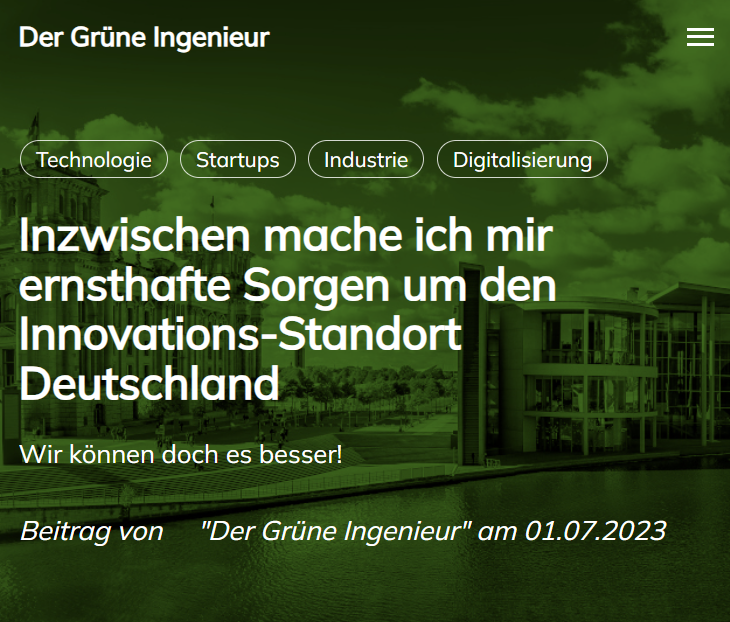
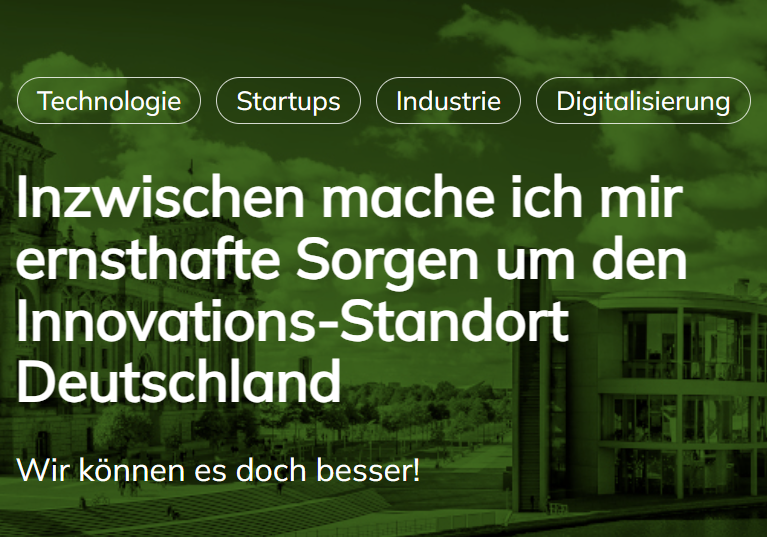
typo! kopetsch/ingenieurgruen@8cf85180b226f760ff4241c75e3a1fc991bb94fd

diff --git a/index.html b/index.html
@@ -9,7 +9,7 @@
 col-md-8 col-md-offset-1
 col-sm-12
 col-xs-12
-post-container"><div class=post-preview><a href=https://blog.ingenieurgruen.de/post/sorgen-cg/><h2 class=post-title>Inzwischen mache ich mir ernsthafte Sorgen um den Innovations-Standort Deutschland</h2><h3 class=post-subtitle>Wir können doch es besser!</h3><div class=post-content-preview>Als aufmerksamer Beobachter der deutschen Technologiebranche muss ich zugeben, dass sich meine Sorgen um den Innovations-Standort Deutschland in letzter Zeit zunehmend verstärkt haben.</div></a><p class=post-meta>Beitrag von     "Der Grüne Ingenieur" am 01.07.2023</p></div><hr><div class=post-preview><a href=https://blog.ingenieurgruen.de/post/innopol-krise/><h2 class=post-title>Bemerkungen über die Innovationspolitik in schwierigen Zeiten</h2><h3 class=post-subtitle>In Krisen, wie wir sie im Moment erleben, dürfen wir unsere Innovationsfähigkeit nicht in Gefahr bringen.</h3><div class=post-content-preview>Wenn wir uns in Deutschland heute ausschließlich auf Klima und Energie konzentrieren, dann gibt es wieder lange Gesichter, wenn andere Schlüsseltechnologien vollständig verloren und neue Abhängigkeiten entstanden sind.</div></a><p class=post-meta>Beitrag von     "Der Grüne Ingenieur" am 26.04.2023</p></div><hr><div class=post-preview><a href=https://blog.ingenieurgruen.de/post/genossenschaft/><h2 class=post-title>Die eingetragene Genossenschaft als Innovationsraum</h2><h3 class=post-subtitle>Was einer allein nicht schafft, das schaffen viele!</h3><div class=post-content-preview>Was einer allein nicht schafft, das schaffen viele, so die Überzeugung von Friedrich Wilhelm Raiffeisen, dem Initiator des Genossenschaftsgedankens.</div></a><p class=post-meta>Beitrag von     "Der Grüne Ingenieur" am 12.01.2023</p></div><hr><div class=post-preview><a href=https://blog.ingenieurgruen.de/post/bdk22/><h2 class=post-title>Bemerkungen zur Bundesdelegiertenkonferenz (BDK) der Grünen im Oktober 2022</h2><h3 class=post-subtitle>Zum ersten Mal seit drei Jahren, fand die BDK wieder in Präsenz statt.</h3><div class=post-content-preview>Es war deutlich zu spüren: Die Welt ist eine andere und unsere Partei hat sich verändert, weil sich die Menschen in dieser neuen Realität auch verändern und nach Orientierung suchen.</div></a><p class=post-meta>Beitrag von     "Der Grüne Ingenieur" am 16.10.2022</p></div><hr><div class=post-preview><a href=https://blog.ingenieurgruen.de/post/startup-strategie-bmwk-22/><h2 class=post-title>Respekt! So geht gute Wirtschaftspolitik.</h2><h3 class=post-subtitle>Die StartUp-Strategie des Bundesministeriums für Wirtschaft und Klimaschutz</h3><div class=post-content-preview>Lösungsansätze, die seit Jahren intensiv diskutiert worden sind, kurzfristig realisieren. Nach 16 Jahren CDU geführter Regierung des Stillstands, sind wir daran wahrscheinlich nicht mehr gewöhnt.</div></a><p class=post-meta>Beitrag von     "Der Grüne Ingenieur" am 06.06.2022</p></div><hr><div class=post-preview><a href=https://blog.ingenieurgruen.de/post/impulse-20lp/><h2 class=post-title>Innovations- und Technologiepolitik 2022-25</h2><h3 class=post-subtitle>Impulse für eine Verbesserung der Innovationspolitik in der 20. Legislaturperiode</h3><div class=post-content-preview>Folgende Leitgedanken dienen der Strukturierung der Überlegungen. Sie dienen als Diskussionsimpulse für die Entwicklung einer entsprechenden Strategie.</div></a><p class=post-meta>Beitrag von     "Der Grüne Ingenieur" am 20.05.2022</p></div><hr><div class=post-preview><a href=https://blog.ingenieurgruen.de/post/innovation-kmu/><h2 class=post-title>Innovation und KMU</h2><h3 class=post-subtitle>Ein Beitrag zur Debatte über neue Ansätze in der Innovationsförderung</h3><div class=post-content-preview>In der Innovationspolitik wird in Deutschland auch vieles richtig gemacht. Im internationalen Vergleich sind die Aktivitäten zielführend und ausgewogen. Trotzdem besteht der Bedarf an einer Justierung der Instrumente.</div></a><p class=post-meta>Beitrag von     "Der Grüne Ingenieur" am 30.04.2022</p></div><hr><div class=post-preview><a href=https://blog.ingenieurgruen.de/post/skalierbarkeit/><h2 class=post-title>Wir pfeifen auf Skalierbarkeit!</h2><h3 class=post-subtitle>Wer sind unsere Vorbilder?</h3><div class=post-content-preview>Geschäftsmodelle, die nur durch die eigene marktbeherrschende Größe funktionieren, zu Lasten der Arbeitsbedingungen und der Qualität der Angebote, dürfen sich nicht durchsetzen, weil dann echter Wettbewerb nicht mehr existiert.</div></a><p class=post-meta>Beitrag von     "Der Grüne Ingenieur" am 19.04.2022</p></div><hr><div class=post-preview><a href=https://blog.ingenieurgruen.de/post/mittelstand/><h2 class=post-title>Zukunft des Mittelstands - Mittelstand der Zukunft</h2><h3 class=post-subtitle>Wohin geht unser Weg?</h3><div class=post-content-preview>Unternehmer*in sein heißt, Verantwortung für die Zukunft zu übernehmen und nicht, über Exit-Strategien zu fabulieren.</div></a><p class=post-meta>Beitrag von     "Der Grüne Ingenieur" am 15.02.2022</p></div><hr><div class=post-preview><a href=https://blog.ingenieurgruen.de/post/startups/><h2 class=post-title>Innovationspolitik darf nicht immer nur um Startups kreisen</h2><h3 class=post-subtitle>Der größte Feind der Innovation ist der gegenwärtige Erfolg!</h3><div class=post-content-preview>Ein Unternehmen wird von Hochschulabsolventen gegründet, tritt mit Ergebnissen aus der Forschung erfolgreich in den Markt ein, um sich dort zu behaupten.</div></a><p class=post-meta>Beitrag von     "Der Grüne Ingenieur" am 20.01.2022</p></div><hr><ul class=pager><li class=next><a href=/page/2/>Older Posts &rarr;</a></li></ul></div><div class="col-lg-3 col-lg-offset-0
+post-container"><div class=post-preview><a href=https://blog.ingenieurgruen.de/post/sorgen-cg/><h2 class=post-title>Inzwischen mache ich mir ernsthafte Sorgen um den Innovations-Standort Deutschland</h2><h3 class=post-subtitle>Wir können es doch besser!</h3><div class=post-content-preview>Als aufmerksamer Beobachter der deutschen Technologiebranche muss ich zugeben, dass sich meine Sorgen um den Innovations-Standort Deutschland in letzter Zeit zunehmend verstärkt haben.</div></a><p class=post-meta>Beitrag von     "Der Grüne Ingenieur" am 01.07.2023</p></div><hr><div class=post-preview><a href=https://blog.ingenieurgruen.de/post/innopol-krise/><h2 class=post-title>Bemerkungen über die Innovationspolitik in schwierigen Zeiten</h2><h3 class=post-subtitle>In Krisen, wie wir sie im Moment erleben, dürfen wir unsere Innovationsfähigkeit nicht in Gefahr bringen.</h3><div class=post-content-preview>Wenn wir uns in Deutschland heute ausschließlich auf Klima und Energie konzentrieren, dann gibt es wieder lange Gesichter, wenn andere Schlüsseltechnologien vollständig verloren und neue Abhängigkeiten entstanden sind.</div></a><p class=post-meta>Beitrag von     "Der Grüne Ingenieur" am 26.04.2023</p></div><hr><div class=post-preview><a href=https://blog.ingenieurgruen.de/post/genossenschaft/><h2 class=post-title>Die eingetragene Genossenschaft als Innovationsraum</h2><h3 class=post-subtitle>Was einer allein nicht schafft, das schaffen viele!</h3><div class=post-content-preview>Was einer allein nicht schafft, das schaffen viele, so die Überzeugung von Friedrich Wilhelm Raiffeisen, dem Initiator des Genossenschaftsgedankens.</div></a><p class=post-meta>Beitrag von     "Der Grüne Ingenieur" am 12.01.2023</p></div><hr><div class=post-preview><a href=https://blog.ingenieurgruen.de/post/bdk22/><h2 class=post-title>Bemerkungen zur Bundesdelegiertenkonferenz (BDK) der Grünen im Oktober 2022</h2><h3 class=post-subtitle>Zum ersten Mal seit drei Jahren, fand die BDK wieder in Präsenz statt.</h3><div class=post-content-preview>Es war deutlich zu spüren: Die Welt ist eine andere und unsere Partei hat sich verändert, weil sich die Menschen in dieser neuen Realität auch verändern und nach Orientierung suchen.</div></a><p class=post-meta>Beitrag von     "Der Grüne Ingenieur" am 16.10.2022</p></div><hr><div class=post-preview><a href=https://blog.ingenieurgruen.de/post/startup-strategie-bmwk-22/><h2 class=post-title>Respekt! So geht gute Wirtschaftspolitik.</h2><h3 class=post-subtitle>Die StartUp-Strategie des Bundesministeriums für Wirtschaft und Klimaschutz</h3><div class=post-content-preview>Lösungsansätze, die seit Jahren intensiv diskutiert worden sind, kurzfristig realisieren. Nach 16 Jahren CDU geführter Regierung des Stillstands, sind wir daran wahrscheinlich nicht mehr gewöhnt.</div></a><p class=post-meta>Beitrag von     "Der Grüne Ingenieur" am 06.06.2022</p></div><hr><div class=post-preview><a href=https://blog.ingenieurgruen.de/post/impulse-20lp/><h2 class=post-title>Innovations- und Technologiepolitik 2022-25</h2><h3 class=post-subtitle>Impulse für eine Verbesserung der Innovationspolitik in der 20. Legislaturperiode</h3><div class=post-content-preview>Folgende Leitgedanken dienen der Strukturierung der Überlegungen. Sie dienen als Diskussionsimpulse für die Entwicklung einer entsprechenden Strategie.</div></a><p class=post-meta>Beitrag von     "Der Grüne Ingenieur" am 20.05.2022</p></div><hr><div class=post-preview><a href=https://blog.ingenieurgruen.de/post/innovation-kmu/><h2 class=post-title>Innovation und KMU</h2><h3 class=post-subtitle>Ein Beitrag zur Debatte über neue Ansätze in der Innovationsförderung</h3><div class=post-content-preview>In der Innovationspolitik wird in Deutschland auch vieles richtig gemacht. Im internationalen Vergleich sind die Aktivitäten zielführend und ausgewogen. Trotzdem besteht der Bedarf an einer Justierung der Instrumente.</div></a><p class=post-meta>Beitrag von     "Der Grüne Ingenieur" am 30.04.2022</p></div><hr><div class=post-preview><a href=https://blog.ingenieurgruen.de/post/skalierbarkeit/><h2 class=post-title>Wir pfeifen auf Skalierbarkeit!</h2><h3 class=post-subtitle>Wer sind unsere Vorbilder?</h3><div class=post-content-preview>Geschäftsmodelle, die nur durch die eigene marktbeherrschende Größe funktionieren, zu Lasten der Arbeitsbedingungen und der Qualität der Angebote, dürfen sich nicht durchsetzen, weil dann echter Wettbewerb nicht mehr existiert.</div></a><p class=post-meta>Beitrag von     "Der Grüne Ingenieur" am 19.04.2022</p></div><hr><div class=post-preview><a href=https://blog.ingenieurgruen.de/post/mittelstand/><h2 class=post-title>Zukunft des Mittelstands - Mittelstand der Zukunft</h2><h3 class=post-subtitle>Wohin geht unser Weg?</h3><div class=post-content-preview>Unternehmer*in sein heißt, Verantwortung für die Zukunft zu übernehmen und nicht, über Exit-Strategien zu fabulieren.</div></a><p class=post-meta>Beitrag von     "Der Grüne Ingenieur" am 15.02.2022</p></div><hr><div class=post-preview><a href=https://blog.ingenieurgruen.de/post/startups/><h2 class=post-title>Innovationspolitik darf nicht immer nur um Startups kreisen</h2><h3 class=post-subtitle>Der größte Feind der Innovation ist der gegenwärtige Erfolg!</h3><div class=post-content-preview>Ein Unternehmen wird von Hochschulabsolventen gegründet, tritt mit Ergebnissen aus der Forschung erfolgreich in den Markt ein, um sich dort zu behaupten.</div></a><p class=post-meta>Beitrag von     "Der Grüne Ingenieur" am 20.01.2022</p></div><hr><ul class=pager><li class=next><a href=/page/2/>Older Posts &rarr;</a></li></ul></div><div class="col-lg-3 col-lg-offset-0
 col-md-3 col-md-offset-0
 col-sm-12
 col-xs-12

diff --git a/tags/startups/index.html b/tags/startups/index.html
@@ -9,7 +9,7 @@
 col-md-8 col-md-offset-1
 col-sm-12
 col-xs-12
-post-container"><div class=post-preview><a href=https://blog.ingenieurgruen.de/post/sorgen-cg/><h2 class=post-title>Inzwischen mache ich mir ernsthafte Sorgen um den Innovations-Standort Deutschland</h2><h3 class=post-subtitle>Wir können doch es besser!</h3><div class=post-content-preview>Als aufmerksamer Beobachter der deutschen Technologiebranche muss ich zugeben, dass sich meine Sorgen um den Innovations-Standort Deutschland in letzter Zeit zunehmend verstärkt haben.</div></a><p class=post-meta>Beitrag von     "Der Grüne Ingenieur" am 01.07.2023</p></div><hr><div class=post-preview><a href=https://blog.ingenieurgruen.de/post/startup-strategie-bmwk-22/><h2 class=post-title>Respekt! So geht gute Wirtschaftspolitik.</h2><h3 class=post-subtitle>Die StartUp-Strategie des Bundesministeriums für Wirtschaft und Klimaschutz</h3><div class=post-content-preview>Lösungsansätze, die seit Jahren intensiv diskutiert worden sind, kurzfristig realisieren. Nach 16 Jahren CDU geführter Regierung des Stillstands, sind wir daran wahrscheinlich nicht mehr gewöhnt.</div></a><p class=post-meta>Beitrag von     "Der Grüne Ingenieur" am 06.06.2022</p></div><hr><div class=post-preview><a href=https://blog.ingenieurgruen.de/post/impulse-20lp/><h2 class=post-title>Innovations- und Technologiepolitik 2022-25</h2><h3 class=post-subtitle>Impulse für eine Verbesserung der Innovationspolitik in der 20. Legislaturperiode</h3><div class=post-content-preview>Folgende Leitgedanken dienen der Strukturierung der Überlegungen. Sie dienen als Diskussionsimpulse für die Entwicklung einer entsprechenden Strategie.</div></a><p class=post-meta>Beitrag von     "Der Grüne Ingenieur" am 20.05.2022</p></div><hr><div class=post-preview><a href=https://blog.ingenieurgruen.de/post/innovation-kmu/><h2 class=post-title>Innovation und KMU</h2><h3 class=post-subtitle>Ein Beitrag zur Debatte über neue Ansätze in der Innovationsförderung</h3><div class=post-content-preview>In der Innovationspolitik wird in Deutschland auch vieles richtig gemacht. Im internationalen Vergleich sind die Aktivitäten zielführend und ausgewogen. Trotzdem besteht der Bedarf an einer Justierung der Instrumente.</div></a><p class=post-meta>Beitrag von     "Der Grüne Ingenieur" am 30.04.2022</p></div><hr><div class=post-preview><a href=https://blog.ingenieurgruen.de/post/skalierbarkeit/><h2 class=post-title>Wir pfeifen auf Skalierbarkeit!</h2><h3 class=post-subtitle>Wer sind unsere Vorbilder?</h3><div class=post-content-preview>Geschäftsmodelle, die nur durch die eigene marktbeherrschende Größe funktionieren, zu Lasten der Arbeitsbedingungen und der Qualität der Angebote, dürfen sich nicht durchsetzen, weil dann echter Wettbewerb nicht mehr existiert.</div></a><p class=post-meta>Beitrag von     "Der Grüne Ingenieur" am 19.04.2022</p></div><hr><div class=post-preview><a href=https://blog.ingenieurgruen.de/post/startups/><h2 class=post-title>Innovationspolitik darf nicht immer nur um Startups kreisen</h2><h3 class=post-subtitle>Der größte Feind der Innovation ist der gegenwärtige Erfolg!</h3><div class=post-content-preview>Ein Unternehmen wird von Hochschulabsolventen gegründet, tritt mit Ergebnissen aus der Forschung erfolgreich in den Markt ein, um sich dort zu behaupten.</div></a><p class=post-meta>Beitrag von     "Der Grüne Ingenieur" am 20.01.2022</p></div><hr><div class=post-preview><a href=https://blog.ingenieurgruen.de/post/startup-oeko/><h2 class=post-title>Bemerkungen über die Start-Up Ökonomie</h2><h3 class=post-subtitle>Nur Startup sein alleine, reicht nicht!</h3><div class=post-content-preview>Die Anzahl der Unternehmensgründungen ist insgesamt rückläufig. Es scheint, als hätte der Hype um die Gründung innovativer Unternehmen seinen Höhepunkt bereits überschritten.</div></a><p class=post-meta>Beitrag von     "Der Grüne Ingenieur" am 27.07.2019</p></div><hr></div><div class="col-lg-3 col-lg-offset-0
+post-container"><div class=post-preview><a href=https://blog.ingenieurgruen.de/post/sorgen-cg/><h2 class=post-title>Inzwischen mache ich mir ernsthafte Sorgen um den Innovations-Standort Deutschland</h2><h3 class=post-subtitle>Wir können es doch besser!</h3><div class=post-content-preview>Als aufmerksamer Beobachter der deutschen Technologiebranche muss ich zugeben, dass sich meine Sorgen um den Innovations-Standort Deutschland in letzter Zeit zunehmend verstärkt haben.</div></a><p class=post-meta>Beitrag von     "Der Grüne Ingenieur" am 01.07.2023</p></div><hr><div class=post-preview><a href=https://blog.ingenieurgruen.de/post/startup-strategie-bmwk-22/><h2 class=post-title>Respekt! So geht gute Wirtschaftspolitik.</h2><h3 class=post-subtitle>Die StartUp-Strategie des Bundesministeriums für Wirtschaft und Klimaschutz</h3><div class=post-content-preview>Lösungsansätze, die seit Jahren intensiv diskutiert worden sind, kurzfristig realisieren. Nach 16 Jahren CDU geführter Regierung des Stillstands, sind wir daran wahrscheinlich nicht mehr gewöhnt.</div></a><p class=post-meta>Beitrag von     "Der Grüne Ingenieur" am 06.06.2022</p></div><hr><div class=post-preview><a href=https://blog.ingenieurgruen.de/post/impulse-20lp/><h2 class=post-title>Innovations- und Technologiepolitik 2022-25</h2><h3 class=post-subtitle>Impulse für eine Verbesserung der Innovationspolitik in der 20. Legislaturperiode</h3><div class=post-content-preview>Folgende Leitgedanken dienen der Strukturierung der Überlegungen. Sie dienen als Diskussionsimpulse für die Entwicklung einer entsprechenden Strategie.</div></a><p class=post-meta>Beitrag von     "Der Grüne Ingenieur" am 20.05.2022</p></div><hr><div class=post-preview><a href=https://blog.ingenieurgruen.de/post/innovation-kmu/><h2 class=post-title>Innovation und KMU</h2><h3 class=post-subtitle>Ein Beitrag zur Debatte über neue Ansätze in der Innovationsförderung</h3><div class=post-content-preview>In der Innovationspolitik wird in Deutschland auch vieles richtig gemacht. Im internationalen Vergleich sind die Aktivitäten zielführend und ausgewogen. Trotzdem besteht der Bedarf an einer Justierung der Instrumente.</div></a><p class=post-meta>Beitrag von     "Der Grüne Ingenieur" am 30.04.2022</p></div><hr><div class=post-preview><a href=https://blog.ingenieurgruen.de/post/skalierbarkeit/><h2 class=post-title>Wir pfeifen auf Skalierbarkeit!</h2><h3 class=post-subtitle>Wer sind unsere Vorbilder?</h3><div class=post-content-preview>Geschäftsmodelle, die nur durch die eigene marktbeherrschende Größe funktionieren, zu Lasten der Arbeitsbedingungen und der Qualität der Angebote, dürfen sich nicht durchsetzen, weil dann echter Wettbewerb nicht mehr existiert.</div></a><p class=post-meta>Beitrag von     "Der Grüne Ingenieur" am 19.04.2022</p></div><hr><div class=post-preview><a href=https://blog.ingenieurgruen.de/post/startups/><h2 class=post-title>Innovationspolitik darf nicht immer nur um Startups kreisen</h2><h3 class=post-subtitle>Der größte Feind der Innovation ist der gegenwärtige Erfolg!</h3><div class=post-content-preview>Ein Unternehmen wird von Hochschulabsolventen gegründet, tritt mit Ergebnissen aus der Forschung erfolgreich in den Markt ein, um sich dort zu behaupten.</div></a><p class=post-meta>Beitrag von     "Der Grüne Ingenieur" am 20.01.2022</p></div><hr><div class=post-preview><a href=https://blog.ingenieurgruen.de/post/startup-oeko/><h2 class=post-title>Bemerkungen über die Start-Up Ökonomie</h2><h3 class=post-subtitle>Nur Startup sein alleine, reicht nicht!</h3><div class=post-content-preview>Die Anzahl der Unternehmensgründungen ist insgesamt rückläufig. Es scheint, als hätte der Hype um die Gründung innovativer Unternehmen seinen Höhepunkt bereits überschritten.</div></a><p class=post-meta>Beitrag von     "Der Grüne Ingenieur" am 27.07.2019</p></div><hr></div><div class="col-lg-3 col-lg-offset-0
 col-md-3 col-md-offset-0
 col-sm-12
 col-xs-12

diff --git a/categories/wirtschaft/index.html b/categories/wirtschaft/index.html
@@ -9,7 +9,7 @@
 col-md-8 col-md-offset-1
 col-sm-12
 col-xs-12
-post-container"><div class=post-preview><a href=https://blog.ingenieurgruen.de/post/sorgen-cg/><h2 class=post-title>Inzwischen mache ich mir ernsthafte Sorgen um den Innovations-Standort Deutschland</h2><h3 class=post-subtitle>Wir können doch es besser!</h3><div class=post-content-preview>Als aufmerksamer Beobachter der deutschen Technologiebranche muss ich zugeben, dass sich meine Sorgen um den Innovations-Standort Deutschland in letzter Zeit zunehmend verstärkt haben.</div></a><p class=post-meta>Beitrag von     "Der Grüne Ingenieur" am 01.07.2023</p></div><hr><div class=post-preview><a href=https://blog.ingenieurgruen.de/post/genossenschaft/><h2 class=post-title>Die eingetragene Genossenschaft als Innovationsraum</h2><h3 class=post-subtitle>Was einer allein nicht schafft, das schaffen viele!</h3><div class=post-content-preview>Was einer allein nicht schafft, das schaffen viele, so die Überzeugung von Friedrich Wilhelm Raiffeisen, dem Initiator des Genossenschaftsgedankens.</div></a><p class=post-meta>Beitrag von     "Der Grüne Ingenieur" am 12.01.2023</p></div><hr><div class=post-preview><a href=https://blog.ingenieurgruen.de/post/skalierbarkeit/><h2 class=post-title>Wir pfeifen auf Skalierbarkeit!</h2><h3 class=post-subtitle>Wer sind unsere Vorbilder?</h3><div class=post-content-preview>Geschäftsmodelle, die nur durch die eigene marktbeherrschende Größe funktionieren, zu Lasten der Arbeitsbedingungen und der Qualität der Angebote, dürfen sich nicht durchsetzen, weil dann echter Wettbewerb nicht mehr existiert.</div></a><p class=post-meta>Beitrag von     "Der Grüne Ingenieur" am 19.04.2022</p></div><hr><div class=post-preview><a href=https://blog.ingenieurgruen.de/post/mittelstand/><h2 class=post-title>Zukunft des Mittelstands - Mittelstand der Zukunft</h2><h3 class=post-subtitle>Wohin geht unser Weg?</h3><div class=post-content-preview>Unternehmer*in sein heißt, Verantwortung für die Zukunft zu übernehmen und nicht, über Exit-Strategien zu fabulieren.</div></a><p class=post-meta>Beitrag von     "Der Grüne Ingenieur" am 15.02.2022</p></div><hr><div class=post-preview><a href=https://blog.ingenieurgruen.de/post/transport/><h2 class=post-title>Gütertransport und Klimaschutz</h2><h3 class=post-subtitle>Ist es in Ordnung, frischen Fisch um die Welt zu jetten?</h3><div class=post-content-preview>In der Diskussion um die Beschränkung der individuellen Mobilität zum Schutz des Klimas, wird merkwürdigerweise nie der Anteil des persönlichen Verhaltens am weltweiten Transport-Aufkommen für Konsumgüter in Betracht gezogen.</div></a><p class=post-meta>Beitrag von     "Der Grüne Ingenieur" am 12.07.2018</p></div><hr></div><div class="col-lg-3 col-lg-offset-0
+post-container"><div class=post-preview><a href=https://blog.ingenieurgruen.de/post/sorgen-cg/><h2 class=post-title>Inzwischen mache ich mir ernsthafte Sorgen um den Innovations-Standort Deutschland</h2><h3 class=post-subtitle>Wir können es doch besser!</h3><div class=post-content-preview>Als aufmerksamer Beobachter der deutschen Technologiebranche muss ich zugeben, dass sich meine Sorgen um den Innovations-Standort Deutschland in letzter Zeit zunehmend verstärkt haben.</div></a><p class=post-meta>Beitrag von     "Der Grüne Ingenieur" am 01.07.2023</p></div><hr><div class=post-preview><a href=https://blog.ingenieurgruen.de/post/genossenschaft/><h2 class=post-title>Die eingetragene Genossenschaft als Innovationsraum</h2><h3 class=post-subtitle>Was einer allein nicht schafft, das schaffen viele!</h3><div class=post-content-preview>Was einer allein nicht schafft, das schaffen viele, so die Überzeugung von Friedrich Wilhelm Raiffeisen, dem Initiator des Genossenschaftsgedankens.</div></a><p class=post-meta>Beitrag von     "Der Grüne Ingenieur" am 12.01.2023</p></div><hr><div class=post-preview><a href=https://blog.ingenieurgruen.de/post/skalierbarkeit/><h2 class=post-title>Wir pfeifen auf Skalierbarkeit!</h2><h3 class=post-subtitle>Wer sind unsere Vorbilder?</h3><div class=post-content-preview>Geschäftsmodelle, die nur durch die eigene marktbeherrschende Größe funktionieren, zu Lasten der Arbeitsbedingungen und der Qualität der Angebote, dürfen sich nicht durchsetzen, weil dann echter Wettbewerb nicht mehr existiert.</div></a><p class=post-meta>Beitrag von     "Der Grüne Ingenieur" am 19.04.2022</p></div><hr><div class=post-preview><a href=https://blog.ingenieurgruen.de/post/mittelstand/><h2 class=post-title>Zukunft des Mittelstands - Mittelstand der Zukunft</h2><h3 class=post-subtitle>Wohin geht unser Weg?</h3><div class=post-content-preview>Unternehmer*in sein heißt, Verantwortung für die Zukunft zu übernehmen und nicht, über Exit-Strategien zu fabulieren.</div></a><p class=post-meta>Beitrag von     "Der Grüne Ingenieur" am 15.02.2022</p></div><hr><div class=post-preview><a href=https://blog.ingenieurgruen.de/post/transport/><h2 class=post-title>Gütertransport und Klimaschutz</h2><h3 class=post-subtitle>Ist es in Ordnung, frischen Fisch um die Welt zu jetten?</h3><div class=post-content-preview>In der Diskussion um die Beschränkung der individuellen Mobilität zum Schutz des Klimas, wird merkwürdigerweise nie der Anteil des persönlichen Verhaltens am weltweiten Transport-Aufkommen für Konsumgüter in Betracht gezogen.</div></a><p class=post-meta>Beitrag von     "Der Grüne Ingenieur" am 12.07.2018</p></div><hr></div><div class="col-lg-3 col-lg-offset-0
 col-md-3 col-md-offset-0
 col-sm-12
 col-xs-12

diff --git a/tags/technologie/index.html b/tags/technologie/index.html
@@ -9,7 +9,7 @@
 col-md-8 col-md-offset-1
 col-sm-12
 col-xs-12
-post-container"><div class=post-preview><a href=https://blog.ingenieurgruen.de/post/sorgen-cg/><h2 class=post-title>Inzwischen mache ich mir ernsthafte Sorgen um den Innovations-Standort Deutschland</h2><h3 class=post-subtitle>Wir können doch es besser!</h3><div class=post-content-preview>Als aufmerksamer Beobachter der deutschen Technologiebranche muss ich zugeben, dass sich meine Sorgen um den Innovations-Standort Deutschland in letzter Zeit zunehmend verstärkt haben.</div></a><p class=post-meta>Beitrag von     "Der Grüne Ingenieur" am 01.07.2023</p></div><hr><div class=post-preview><a href=https://blog.ingenieurgruen.de/post/innopol-krise/><h2 class=post-title>Bemerkungen über die Innovationspolitik in schwierigen Zeiten</h2><h3 class=post-subtitle>In Krisen, wie wir sie im Moment erleben, dürfen wir unsere Innovationsfähigkeit nicht in Gefahr bringen.</h3><div class=post-content-preview>Wenn wir uns in Deutschland heute ausschließlich auf Klima und Energie konzentrieren, dann gibt es wieder lange Gesichter, wenn andere Schlüsseltechnologien vollständig verloren und neue Abhängigkeiten entstanden sind.</div></a><p class=post-meta>Beitrag von     "Der Grüne Ingenieur" am 26.04.2023</p></div><hr><div class=post-preview><a href=https://blog.ingenieurgruen.de/post/gaia-airbus/><h2 class=post-title>Mehr AIRBUS und GAIA-X für Europa</h2><h3 class=post-subtitle>Unser Weg zur technologischen Souveränität Europas!</h3><div class=post-content-preview>Gemeinschaftsunternehmungen wie GAIA-X und AIRBUS stärken nicht nur die Zukunftsfähigkeit der Wirtschaft in Europa, sondern gleichzeitig das Gefühl für europäische Identität und Zusammengehörigkeit.</div></a><p class=post-meta>Beitrag von     "Der Grüne Ingenieur" am 26.11.2019</p></div><hr></div><div class="col-lg-3 col-lg-offset-0
+post-container"><div class=post-preview><a href=https://blog.ingenieurgruen.de/post/sorgen-cg/><h2 class=post-title>Inzwischen mache ich mir ernsthafte Sorgen um den Innovations-Standort Deutschland</h2><h3 class=post-subtitle>Wir können es doch besser!</h3><div class=post-content-preview>Als aufmerksamer Beobachter der deutschen Technologiebranche muss ich zugeben, dass sich meine Sorgen um den Innovations-Standort Deutschland in letzter Zeit zunehmend verstärkt haben.</div></a><p class=post-meta>Beitrag von     "Der Grüne Ingenieur" am 01.07.2023</p></div><hr><div class=post-preview><a href=https://blog.ingenieurgruen.de/post/innopol-krise/><h2 class=post-title>Bemerkungen über die Innovationspolitik in schwierigen Zeiten</h2><h3 class=post-subtitle>In Krisen, wie wir sie im Moment erleben, dürfen wir unsere Innovationsfähigkeit nicht in Gefahr bringen.</h3><div class=post-content-preview>Wenn wir uns in Deutschland heute ausschließlich auf Klima und Energie konzentrieren, dann gibt es wieder lange Gesichter, wenn andere Schlüsseltechnologien vollständig verloren und neue Abhängigkeiten entstanden sind.</div></a><p class=post-meta>Beitrag von     "Der Grüne Ingenieur" am 26.04.2023</p></div><hr><div class=post-preview><a href=https://blog.ingenieurgruen.de/post/gaia-airbus/><h2 class=post-title>Mehr AIRBUS und GAIA-X für Europa</h2><h3 class=post-subtitle>Unser Weg zur technologischen Souveränität Europas!</h3><div class=post-content-preview>Gemeinschaftsunternehmungen wie GAIA-X und AIRBUS stärken nicht nur die Zukunftsfähigkeit der Wirtschaft in Europa, sondern gleichzeitig das Gefühl für europäische Identität und Zusammengehörigkeit.</div></a><p class=post-meta>Beitrag von     "Der Grüne Ingenieur" am 26.11.2019</p></div><hr></div><div class="col-lg-3 col-lg-offset-0
 col-md-3 col-md-offset-0
 col-sm-12
 col-xs-12

diff --git a/tags/industrie/index.html b/tags/industrie/index.html
@@ -9,7 +9,7 @@
 col-md-8 col-md-offset-1
 col-sm-12
 col-xs-12
-post-container"><div class=post-preview><a href=https://blog.ingenieurgruen.de/post/sorgen-cg/><h2 class=post-title>Inzwischen mache ich mir ernsthafte Sorgen um den Innovations-Standort Deutschland</h2><h3 class=post-subtitle>Wir können doch es besser!</h3><div class=post-content-preview>Als aufmerksamer Beobachter der deutschen Technologiebranche muss ich zugeben, dass sich meine Sorgen um den Innovations-Standort Deutschland in letzter Zeit zunehmend verstärkt haben.</div></a><p class=post-meta>Beitrag von     "Der Grüne Ingenieur" am 01.07.2023</p></div><hr><div class=post-preview><a href=https://blog.ingenieurgruen.de/post/iot/><h2 class=post-title>Für das Internet der Dinge braucht es zuerst Dinge</h2><h3 class=post-subtitle>Unsers Stärken müssen wir stärken!</h3><div class=post-content-preview>Investitionen in technologische Forschung und Entwicklung mit dem Ziel, Gegenstände („Hardware“) zu fertigen erfordern einen längeren Atem als in der Digitalwirtschaft.</div></a><p class=post-meta>Beitrag von     "Der Grüne Ingenieur" am 26.09.2021</p></div><hr></div><div class="col-lg-3 col-lg-offset-0
+post-container"><div class=post-preview><a href=https://blog.ingenieurgruen.de/post/sorgen-cg/><h2 class=post-title>Inzwischen mache ich mir ernsthafte Sorgen um den Innovations-Standort Deutschland</h2><h3 class=post-subtitle>Wir können es doch besser!</h3><div class=post-content-preview>Als aufmerksamer Beobachter der deutschen Technologiebranche muss ich zugeben, dass sich meine Sorgen um den Innovations-Standort Deutschland in letzter Zeit zunehmend verstärkt haben.</div></a><p class=post-meta>Beitrag von     "Der Grüne Ingenieur" am 01.07.2023</p></div><hr><div class=post-preview><a href=https://blog.ingenieurgruen.de/post/iot/><h2 class=post-title>Für das Internet der Dinge braucht es zuerst Dinge</h2><h3 class=post-subtitle>Unsers Stärken müssen wir stärken!</h3><div class=post-content-preview>Investitionen in technologische Forschung und Entwicklung mit dem Ziel, Gegenstände („Hardware“) zu fertigen erfordern einen längeren Atem als in der Digitalwirtschaft.</div></a><p class=post-meta>Beitrag von     "Der Grüne Ingenieur" am 26.09.2021</p></div><hr></div><div class="col-lg-3 col-lg-offset-0
 col-md-3 col-md-offset-0
 col-sm-12
 col-xs-12

diff --git a/post/sorgen-cg/index.html b/post/sorgen-cg/index.html
@@ -8,7 +8,7 @@
 <a class=navbar-brand href=/>Der Grüne Ingenieur</a></div><div id=huxblog_navbar><div class=navbar-collapse><ul class="nav navbar-nav navbar-right"><li><a href=/>Alle Beiträge</a></li><li><a href=/categories/europa>europa</a></li><li><a href=/categories/innovation>innovation</a></li><li><a href=/categories/politik>politik</a></li><li><a href=/categories/wirtschaft>wirtschaft</a></li><li><a href=/misc/impressum/>impressum</a></li></ul></div></div></div></nav><script>var $body=document.body,$toggle=document.querySelector(".navbar-toggle"),$navbar=document.querySelector("#huxblog_navbar"),$collapse=document.querySelector(".navbar-collapse");$toggle.addEventListener("click",handleMagic);function handleMagic(){$navbar.className.indexOf("in")>0?($navbar.className=" ",setTimeout(function(){$navbar.className.indexOf("in")<0&&($collapse.style.height="0px")},400)):($collapse.style.height="auto",$navbar.className+=" in")}</script><style type=text/css>header.intro-header{background-image:url(/img/iStock-1049916470-RT-1280-green-dark.jpg)}</style><header class=intro-header><div class=container><div class=row><div class="col-lg-8 col-lg-offset-2 col-md-10 col-md-offset-1"><div class=post-heading><div class=tags><a class=tag href=/tags/technologie title=Technologie>Technologie</a>
 <a class=tag href=/tags/startups title=Startups>Startups</a>
 <a class=tag href=/tags/industrie title=Industrie>Industrie</a>
-<a class=tag href=/tags/digitalisierung title=Digitalisierung>Digitalisierung</a></div><h1>Inzwischen mache ich mir ernsthafte Sorgen um den Innovations-Standort Deutschland</h1><h2 class=subheading>Wir können doch es besser!</h2><span class=meta>Beitrag von
+<a class=tag href=/tags/digitalisierung title=Digitalisierung>Digitalisierung</a></div><h1>Inzwischen mache ich mir ernsthafte Sorgen um den Innovations-Standort Deutschland</h1><h2 class=subheading>Wir können es doch besser!</h2><span class=meta>Beitrag von
     "Der Grüne Ingenieur"
 am
 01.07.2023</span></div></div></div></div></header><article><div class=container><div class=row><div class="col-lg-8 col-lg-offset-2

diff --git a/tags/digitalisierung/index.html b/tags/digitalisierung/index.html
@@ -9,7 +9,7 @@
 col-md-8 col-md-offset-1
 col-sm-12
 col-xs-12
-post-container"><div class=post-preview><a href=https://blog.ingenieurgruen.de/post/sorgen-cg/><h2 class=post-title>Inzwischen mache ich mir ernsthafte Sorgen um den Innovations-Standort Deutschland</h2><h3 class=post-subtitle>Wir können doch es besser!</h3><div class=post-content-preview>Als aufmerksamer Beobachter der deutschen Technologiebranche muss ich zugeben, dass sich meine Sorgen um den Innovations-Standort Deutschland in letzter Zeit zunehmend verstärkt haben.</div></a><p class=post-meta>Beitrag von     "Der Grüne Ingenieur" am 01.07.2023</p></div><hr></div><div class="col-lg-3 col-lg-offset-0
+post-container"><div class=post-preview><a href=https://blog.ingenieurgruen.de/post/sorgen-cg/><h2 class=post-title>Inzwischen mache ich mir ernsthafte Sorgen um den Innovations-Standort Deutschland</h2><h3 class=post-subtitle>Wir können es doch besser!</h3><div class=post-content-preview>Als aufmerksamer Beobachter der deutschen Technologiebranche muss ich zugeben, dass sich meine Sorgen um den Innovations-Standort Deutschland in letzter Zeit zunehmend verstärkt haben.</div></a><p class=post-meta>Beitrag von     "Der Grüne Ingenieur" am 01.07.2023</p></div><hr></div><div class="col-lg-3 col-lg-offset-0
 col-md-3 col-md-offset-0
 col-sm-12
 col-xs-12
